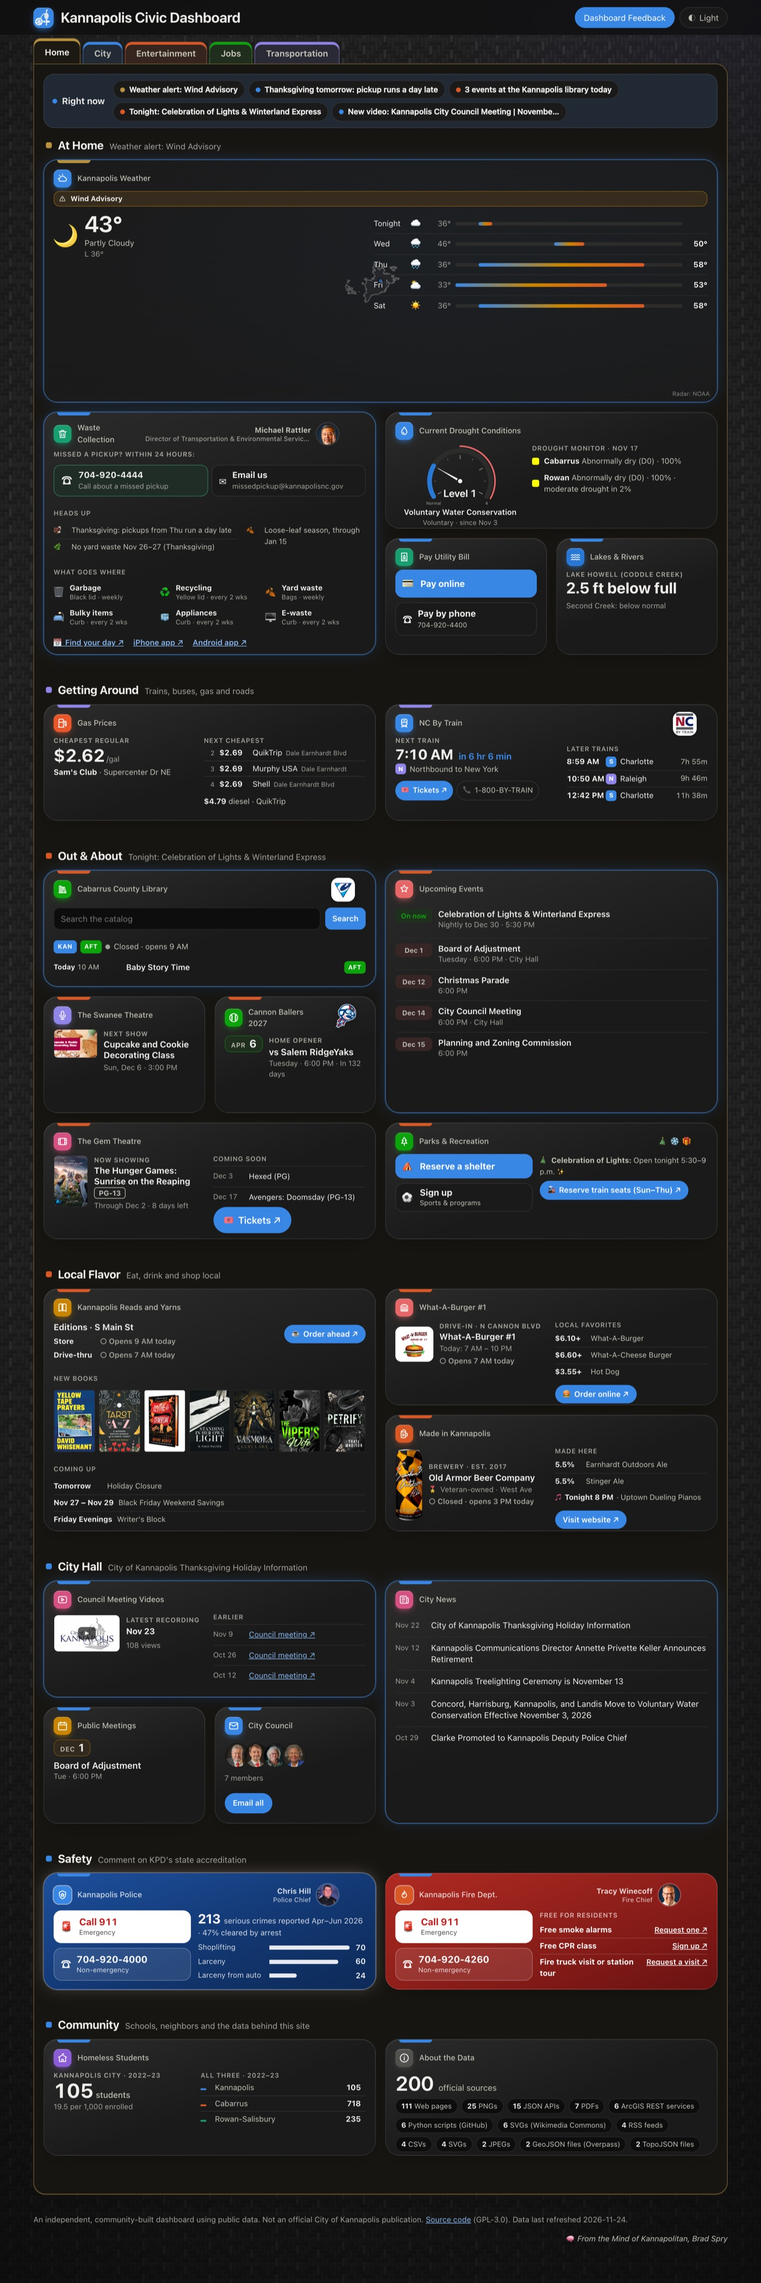
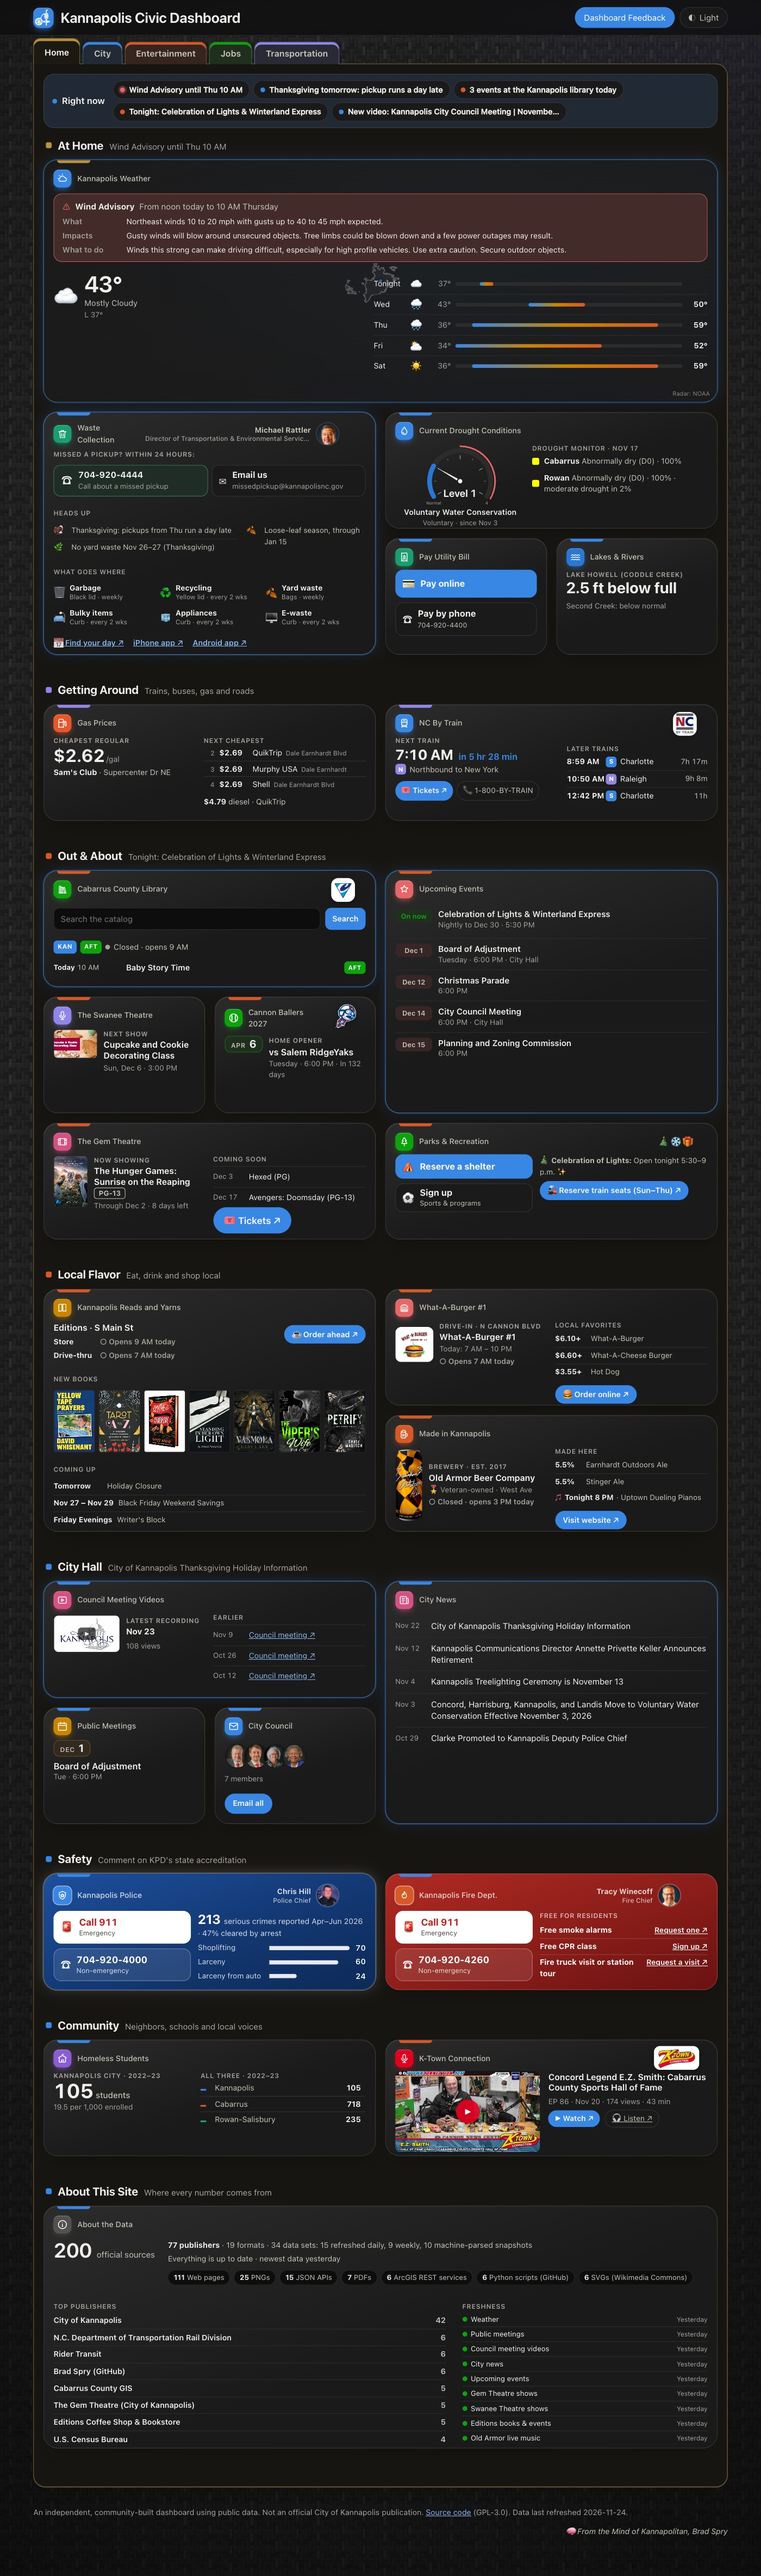
README screenshot: Home with the weather alert, Community and About This Site

diff --git a/README.md b/README.md
@@ -6,7 +6,7 @@ An open-data dashboard for **Kannapolis, North Carolina**, built by a resident f
 
 It's **one self-contained HTML file** built by a small Python script. No Node, no venv, nothing to install.
 
-[![The Kannapolis Civic Dashboard home screen in Smart mode on a dark woven background: a Right now line (weather alert: Wind Advisory, Thanksgiving pickup delay, events at the library, tonight's Celebration of Lights, a new council meeting video) above chapters with golden-ratio tile sizes. At Home: full-width weather with the Wind Advisory and a 5-day forecast over radar, waste collection with holiday delays, drought level, utility bill, lakes and rivers. Getting Around: gas prices and NC By Train. Out & About: library, events, the Swanee, Cannon Ballers, the Gem and Parks & Recreation. Local Flavor: Editions bookstore, What-A-Burger and Old Armor Beer. City Hall: council videos, city news, meetings and council. Safety: police and fire with their chiefs and 911 buttons. Community: homeless students and the data sources](docs/dashboard.jpg)](https://bradspry.github.io/kannapolis-dashboard/)
+[![The Kannapolis Civic Dashboard home screen in Smart mode on a dark woven background: a Right now line (Wind Advisory until Thursday 10 AM, Thanksgiving pickup delay, events at the library, tonight's Celebration of Lights, a new council meeting video) above chapters with golden-ratio tile sizes. At Home: full-width weather led by a red Wind Advisory card (what, impacts, what to do) over the current conditions and a 5-day forecast, then waste collection with holiday delays, drought level, utility bill, lakes and rivers. Getting Around: gas prices and NC By Train. Out & About: library, events, the Swanee, Cannon Ballers, the Gem and Parks & Recreation. Local Flavor: Editions bookstore, What-A-Burger and Old Armor Beer. City Hall: council videos, city news, meetings and council. Safety: police and fire with their chiefs and 911 buttons. Community: homeless students and the K-Town Connection podcast. About This Site: 200 official sources, top publishers and data freshness](docs/dashboard.jpg)](https://bradspry.github.io/kannapolis-dashboard/)
 
 ## Quick start
 
@@ -44,7 +44,7 @@ The home screen is a grid of widget tiles. **Tap a tile to open the full widget 
 
 The dashboard is a set of color-coded folder tabs, each with its own layout (`?tab=city` links straight to one). Home shows every widget unless it's removed, so new widgets appear there by themselves; the other tabs show only the widgets put on them. Your layouts are saved in your browser, one per tab. While `./serve.sh` is running, **Save as default (all tabs)** writes every tab to `data/manual/home_layout.json`, the default for every visitor once committed. **Reset** returns the current tab to its default.
 
-**Smart tabs.** Every tab arranges itself for the moment, each as a story. Each widget gets a score: how timely it is right now (rules in `site/js/pulse.js` that read only the widget's own data and the clock: a holiday pickup delay tomorrow, an event tonight, a meeting today, a weather alert, a new council video, gas down this week), plus its everyday usefulness (`BASE`), plus a little for widgets this browser opens often and for an early place in the saved layout. Widgets are grouped into chapters (`STORIES` in `pulse.js`, one story per tab). Home: At Home, Getting Around, Out & About, Local Flavor, City Hall, Safety, Community, Work & Money. City, what the City of Kannapolis does for you: City Services, Public Safety, City Hall, Downtown & Parks, Budget & Taxes, People & Growth, Community. The City tab carries every widget powered by City of Kannapolis data (per `sources.csv`), including the City-run events, parks, Gem and Swanee theaters, West Avenue Express and City jobs. Entertainment, a night or weekend out: Shows & Events, Get Outside, Eat & Drink, Read, Watch & Listen. Transportation, from your street outward: Driving, Buses & Shuttles, Trains & Planes. Jobs, built from the employer list (`jobsStory`): Public Service, Schools, Health Care, Colleges & Universities, Industry (with the KANDEX), Retail & More; there, an employer's score is how many openings it has (no posting dates exist to tell what's new), and a tab's pinned widget (School Bus Drivers) keeps its top-right corner in Smart, in the lead chapter. The chapter holding the most timely widget leads and the rest keep that order, each with a heading and a one-line lede (its most timely reason, or what it covers). Within a chapter the best-scored widgets take the biggest slots, in golden-ratio proportions (about 1 large : 1.6 medium : 2.6 small), packed into 4×2 bands with no gaps, and the large feature alternates left and right from band to band; the lead chapter opens with two large tiles side by side, and only something like a weather alert takes the full width. On a phone each chapter opens with one or two full-width mediums, then pairs of smalls. Blank spaces you add to Home in Edit become pauses at chapter ends, spread by the golden ratio. A widget taken off Home only comes back for something timely. A **Right now** line above lists the top reasons (each opens its widget), and timely tiles glow. On the published site (GitHub Pages) every tab is always Smart, with no Edit button and no Smart | Mine switch. Both appear only on the local preview (`./serve.sh` on localhost or the LAN, the same rule that keeps Google Analytics off there): **Arranged: Smart | Mine** switches to the tab's saved layout, per tab and per browser, and Edit always works on Mine. Adding a story to another tab is one entry in `STORIES`. A chapter's `big` list keeps a widget large whatever its score (Flights, on Transportation). The arrangement rechecks every 10 minutes.
+**Smart tabs.** Every tab arranges itself for the moment, each as a story. Each widget gets a score: how timely it is right now (rules in `site/js/pulse.js` that read only the widget's own data and the clock: a holiday pickup delay tomorrow, an event tonight, a meeting today, a weather alert, a new council video, gas down this week), plus its everyday usefulness (`BASE`), plus a little for widgets this browser opens often and for an early place in the saved layout. Widgets are grouped into chapters (`STORIES` in `pulse.js`, one story per tab). Home: At Home, Getting Around, Out & About, Local Flavor, City Hall, Safety, Community, Work & Money, and About This Site at the bottom. City, what the City of Kannapolis does for you: City Services, Public Safety, City Hall, Downtown & Parks, Budget & Taxes, People & Growth, Community. The City tab carries every widget powered by City of Kannapolis data (per `sources.csv`), including the City-run events, parks, Gem and Swanee theaters, West Avenue Express and City jobs. Entertainment, a night or weekend out: Shows & Events, Get Outside, Eat & Drink, Read, Watch & Listen. Transportation, from your street outward: Driving, Buses & Shuttles, Trains & Planes. Jobs, built from the employer list (`jobsStory`): Public Service, Schools, Health Care, Colleges & Universities, Industry (with the KANDEX), Retail & More; there, an employer's score is how many openings it has (no posting dates exist to tell what's new), and a tab's pinned widget (School Bus Drivers) keeps its top-right corner in Smart, in the lead chapter. The chapter holding the most timely widget leads and the rest keep that order, each with a heading and a one-line lede (its most timely reason, or what it covers). Within a chapter the best-scored widgets take the biggest slots, in golden-ratio proportions (about 1 large : 1.6 medium : 2.6 small), packed into 4×2 bands with no gaps, and the large feature alternates left and right from band to band; the lead chapter opens with two large tiles side by side, and only something like a weather alert takes the full width. On a phone each chapter opens with one or two full-width mediums, then pairs of smalls. Blank spaces you add to Home in Edit become pauses at chapter ends, spread by the golden ratio. A widget taken off Home only comes back for something timely. A **Right now** line above lists the top reasons (each opens its widget), and timely tiles glow. On the published site (GitHub Pages) every tab is always Smart, with no Edit button and no Smart | Mine switch. Both appear only on the local preview (`./serve.sh` on localhost or the LAN, the same rule that keeps Google Analytics off there): **Arranged: Smart | Mine** switches to the tab's saved layout, per tab and per browser, and Edit always works on Mine. Adding a story to another tab is one entry in `STORIES`. A chapter's `big` list keeps a widget large whatever its score (Flights, on Transportation). The arrangement rechecks every 10 minutes.
 
 ## Testing on your phone
 
